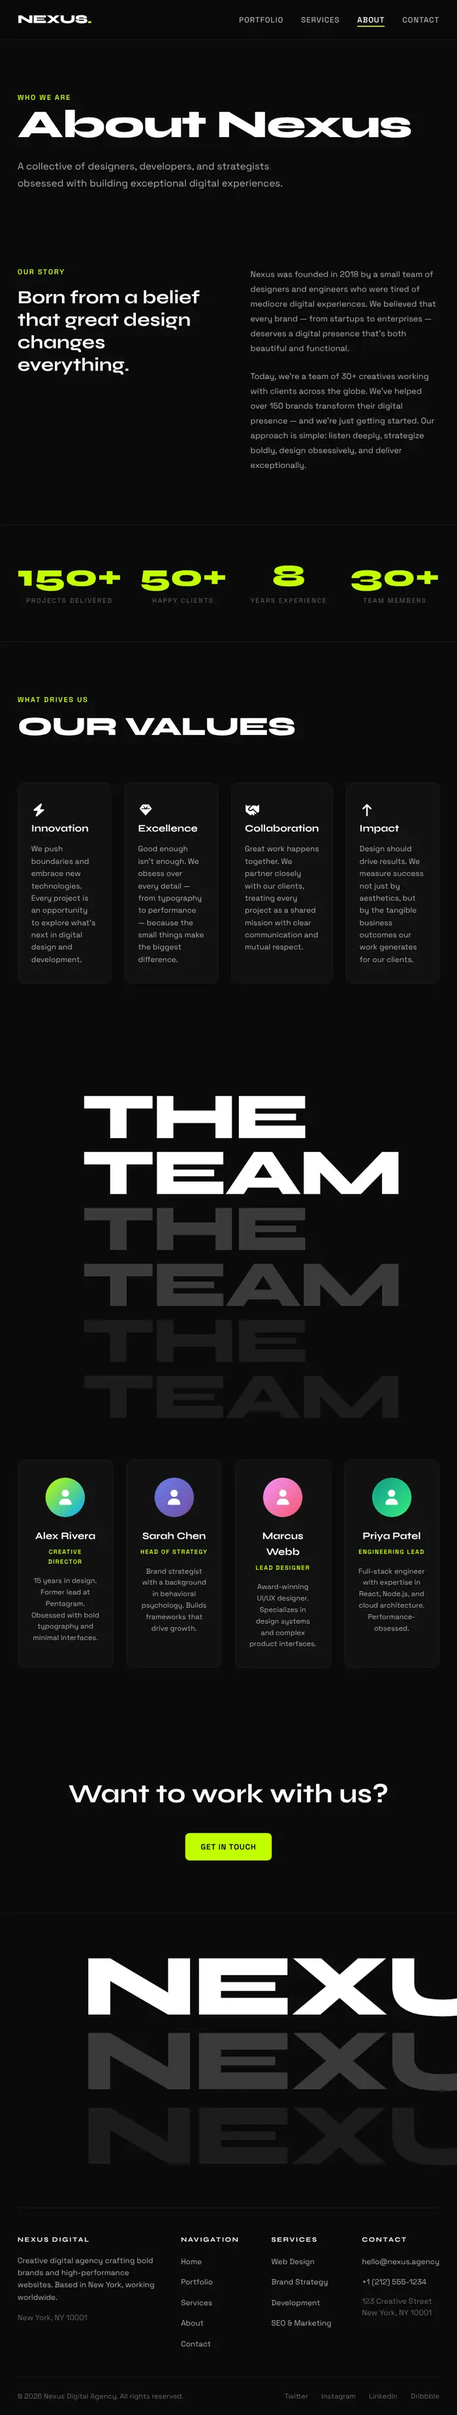
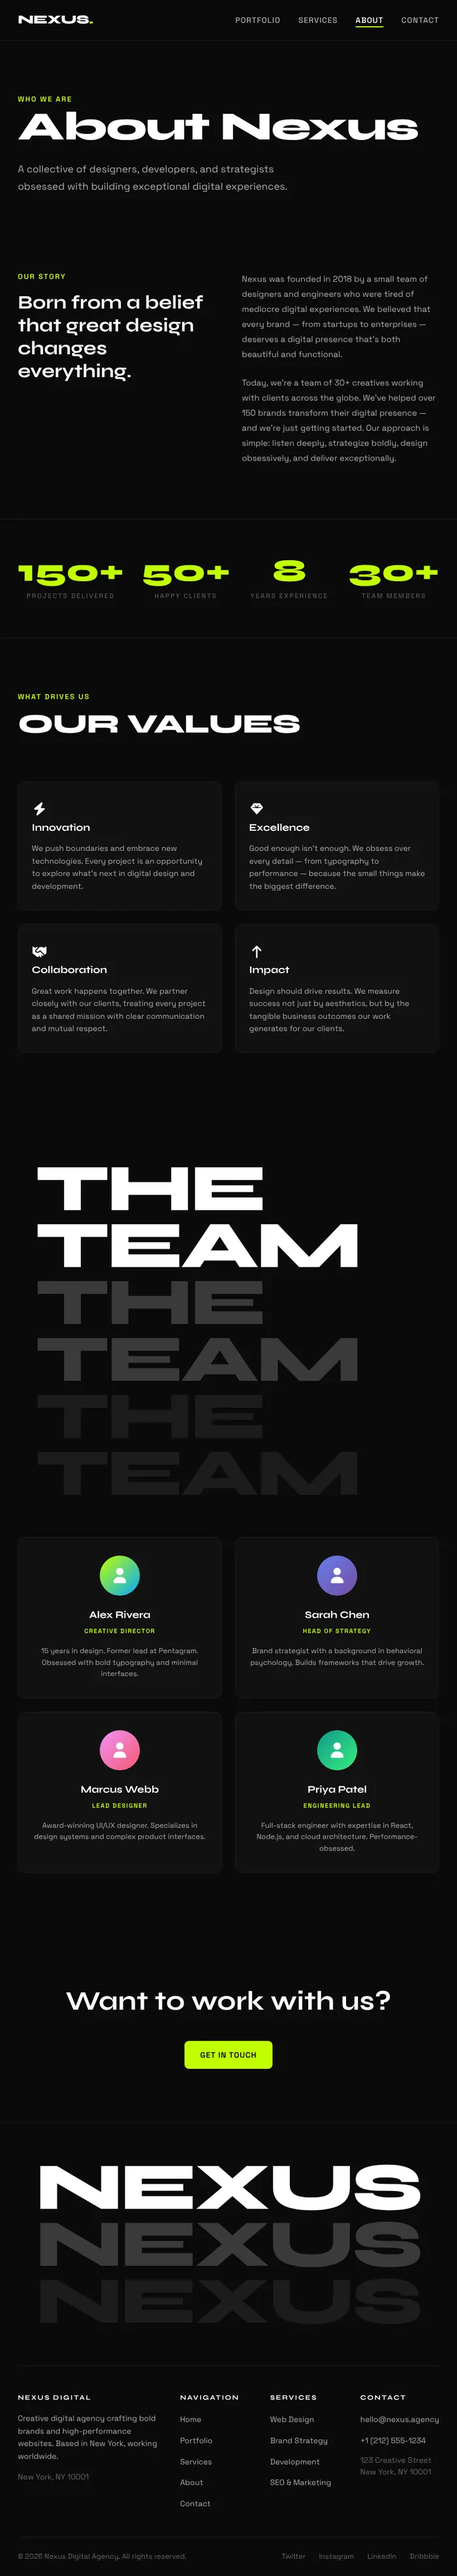
New home covers, tighter spacing, mobile view for Nexus
Claude-Session: https://claude.ai/code/session_01KHu2mMTutQogVfnZRqkc2R

diff --git a/css/styles.css b/css/styles.css
@@ -46,27 +46,25 @@ main:focus { outline: none; }
 .top nav > *:hover { color: var(--ink); }
 @media (max-width: 520px) { .brand span { display: none; } }
 
-.lead { display: grid; grid-template-columns: repeat(12, minmax(0, 1fr)); column-gap: var(--pad); padding-top: clamp(64px, 10vw, 160px); }
-.grid { display: grid; grid-template-columns: repeat(12, minmax(0, 1fr)); column-gap: var(--pad); row-gap: clamp(56px, 9vw, 140px); padding-block: clamp(64px, 9vw, 140px) clamp(80px, 12vw, 180px); }
+.lead { display: grid; grid-template-columns: repeat(12, minmax(0, 1fr)); column-gap: var(--pad); padding-top: clamp(40px, 6vw, 96px); }
+.grid { display: grid; grid-template-columns: repeat(2, minmax(0, 1fr)); gap: clamp(36px, 4vw, 56px) var(--pad); padding-block: clamp(32px, 4.5vw, 64px) clamp(64px, 8vw, 112px); }
 .work { display: block; min-width: 0; }
-.work:nth-child(4n+1) { grid-column: 2 / span 4; }
-.work:nth-child(4n+2) { grid-column: 8 / span 4; margin-top: clamp(80px, 14vw, 220px); }
-.work:nth-child(4n+3) { grid-column: 3 / span 4; }
-.work:nth-child(4n+4) { grid-column: 9 / span 3; margin-top: clamp(40px, 8vw, 120px); }
-.work__tile { position: relative; display: grid; place-items: center; aspect-ratio: 4 / 3; overflow: hidden; border-radius: 6px; background: var(--tile); }
-.work__tile img { position: absolute; inset: 0; margin: auto; display: block; max-width: 74%; max-height: 74%; width: auto; height: auto; object-fit: contain; transition: transform 0.8s var(--ease); filter: drop-shadow(0 18px 26px rgb(0 0 0 / 0.16)); }
-.work__tile img.is-shot { max-width: 84%; max-height: 78%; border-radius: 3px; }
-.work:hover .work__tile img { transform: scale(1.035); }
-.work__cap { margin-top: 10px; line-height: 1.3; }
-.work__cap b { display: block; font-weight: 500; }
+.work:first-child { grid-column: 1 / -1; }
+.work__tile { position: relative; display: block; aspect-ratio: 4 / 5; overflow: hidden; border-radius: 10px; background: var(--tile); }
+.work:first-child .work__tile { aspect-ratio: 16 / 9; }
+.work__tile img, .work__tile video { position: absolute; inset: 0; width: 100%; height: 100%; object-fit: cover; display: block; transition: transform 1s var(--ease); }
+.work:hover .work__tile img, .work:hover .work__tile video { transform: scale(1.03); }
+.work__cap { display: flex; flex-wrap: wrap; align-items: baseline; gap: 2px 10px; margin-top: 14px; line-height: 1.3; }
+.work__cap b { font-weight: 500; }
 .work__cap span { color: var(--mute); }
+.work__cap i { margin-left: auto; font-style: normal; color: var(--mute); font-variant-numeric: tabular-nums; }
 @media (max-width: 760px) {
-  .grid { grid-template-columns: minmax(0, 1fr); row-gap: 56px; padding-top: 40px; }
-  .work:nth-child(n) { grid-column: 1; margin-top: 0; }
+  .grid { grid-template-columns: minmax(0, 1fr); row-gap: 40px; padding-top: 28px; }
+  .work:nth-child(n) { grid-column: 1; }
 }
-.intro { grid-column: 2 / span 7; font-size: clamp(22px, 2.4vw, 32px); line-height: 1.18; letter-spacing: -0.028em; max-width: 26ch; text-wrap: balance; }
+.intro { grid-column: 1 / span 8; font-size: clamp(22px, 2.4vw, 32px); line-height: 1.18; letter-spacing: -0.028em; max-width: 26ch; text-wrap: balance; }
 .intro span { color: var(--mute); }
-@media (max-width: 760px) { .lead { grid-template-columns: minmax(0, 1fr); padding-top: 40px; } .intro { grid-column: 1; } }
+@media (max-width: 760px) { .lead { grid-template-columns: minmax(0, 1fr); padding-top: 32px; } .intro { grid-column: 1; } }
 
 .foot { display: flex; justify-content: space-between; gap: 16px; padding-block: 0 22px; color: var(--mute); }
 
@@ -168,7 +166,7 @@ main:focus { outline: none; }
 .next__txt span { color: var(--mute); display: block; }
 .next__txt b { display: block; margin-top: 4px; font-size: clamp(28px, 3.6vw, 48px); font-weight: 600; letter-spacing: -0.04em; line-height: 1.05; transition: opacity 0.2s; }
 .next:hover .next__txt b { opacity: 0.55; }
-.next .work__tile { grid-column: 9 / span 4; }
+.next .work__tile { grid-column: 9 / span 4; aspect-ratio: 4 / 3; }
 @media (max-width: 760px) { .next__txt, .next .work__tile { grid-column: 1 / -1; } .next .work__tile { margin-top: 20px; } }
 
 .lb { border: 0; padding: 0; margin: 0; width: 100%; height: 100%; max-width: 100%; max-height: 100%; background: transparent; color: var(--ink); }
@@ -365,7 +363,9 @@ main:focus { outline: none; }
 .dev__chrome { display: flex; align-items: center; gap: 7px; height: 34px; padding-inline: 14px; background: #1c1c1e; color: #8e8e93; font-size: 12px; }
 .dev__chrome i { width: 10px; height: 10px; border-radius: 50%; background: #3a3a3c; }
 .dev__chrome span { margin-left: 12px; padding: 3px 12px; border-radius: 6px; background: #2c2c2e; }
-.dev[data-size="tablet"] .dev__chrome { display: none; }
+.dev[data-size="tablet"] .dev__chrome, .dev[data-size="mobile"] .dev__chrome { display: none; }
+.dev[data-size="mobile"] .dev__frame { width: min(100%, 300px); border-radius: 40px; border-width: 10px; border-color: #1a1a1c; }
+.dev[data-size="mobile"] .dev__view { height: min(68vh, 600px); }
 .dev__view { height: min(68vh, 640px); overflow-y: auto; overscroll-behavior: contain; scrollbar-width: thin; }
 .dev__view img { display: block; width: 100%; height: auto; }
 .dev .cap a { color: var(--ink); text-decoration: underline; text-decoration-color: var(--line); text-underline-offset: 3px; }

diff --git a/js/app.js b/js/app.js
@@ -228,10 +228,9 @@
     return '<a class="skip" href="#main" data-skip>' + esc(ui("skip")) + '</a>' + '<header class="top side"><a class="brand" href="#home">' + esc(SITE.name || "") + '<span>' + plain(SITE.role) + '</span></a>' + '<nav aria-label="' + esc(lang === "es" ? "Principal" : "Main") + '">' + '<button type="button" data-lang aria-label="' + esc(ui("langLabel")) + '">' + esc(ui("langBtn")) + '</button>' + '<a href="#information" data-info>' + esc(ui("info")) + '</a>' + '</nav></header>';
   }
   function tile(p) {
-    var o = p.object || {};
-    var src = o.image || p.cover && p.cover.src || "";
-    var shot = o.kind === "browser" || !o.image && src;
-    return '<span class="work__tile">' + (src ? '<img src="' + esc(src) + '" alt=""' + (shot ? ' class="is-shot"' : '') + '>' : '') + '</span>';
+    var th = p.thumb || {}, img = th.image || p.cover && p.cover.src || "";
+    var media = th.video ? '<video src="' + esc(th.video) + '"' + (img ? ' poster="' + esc(img) + '"' : '') + ' muted loop playsinline preload="metadata" aria-hidden="true"></video>' : img ? '<img src="' + esc(img) + '" alt="" loading="lazy">' : '';
+    return '<span class="work__tile"' + (th.video ? ' data-tile-vid' : '') + '>' + media + '</span>';
   }
   function home() {
     var h = SITE.hero || {}, st = SITE.status || {};
@@ -240,12 +239,12 @@
       out += '<section class="lead side"><p class="intro">' + inl(h.title) + (st.available && t(st.text) ? ' <span>' + inl(st.text) + '.</span>' : '') + '</p></section>';
     }
     out += '<section class="grid side" id="work" aria-label="' + esc(ui("index")) + '">' + LIVE.map((function(p) {
-      return '<a class="work" href="#' + esc(p.id) + '">' + tile(p) + '<span class="work__cap"><b>' + plain(p.title) + '</b><span>' + plain(p.kind) + '</span></span></a>';
+      return '<a class="work" href="#' + esc(p.id) + '">' + tile(p) + '<span class="work__cap"><b>' + plain(p.title) + '</b><span>' + plain(p.kind) + '</span>' + (t(p.year) ? '<i>' + plain(p.year) + '</i>' : '') + '</span></a>';
     })).join("") + '</section></main>' + footer();
     return out;
   }
   function footer() {
-    return '<footer class="foot side"><span>© ' + (new Date).getFullYear() + ' ' + esc(SITE.name || "") + '</span>' + '<a href="#information" data-info>' + esc(ui("contact")) + '</a></footer>';
+    return '<footer class="foot side"><span>© ' + (new Date).getFullYear() + ' ' + esc(SITE.name || "") + '</span></footer>';
   }
   function sheetHTML() {
     var ab = SITE.about || {}, ct = SITE.contact || {}, ph = SITE.photo || {}, st = SITE.status || {}, tb = SITE.toolbox || {}, tr = SITE.training || {};
@@ -528,7 +527,13 @@
     io = "IntersectionObserver" in window ? new IntersectionObserver((function(entries) {
       entries.forEach((function(en) {
         var el = en.target;
-        if (el.matches("[data-vid]")) {
+        if (el.matches("[data-tile-vid]")) {
+          var tv = el.querySelector("video");
+          if (en.isIntersecting && !calm()) {
+            var tp = tv.play();
+            if (tp && tp.catch) tp.catch((function() {}));
+          } else tv.pause();
+        } else if (el.matches("[data-vid]")) {
           var v = el.querySelector("video");
           if (en.isIntersecting && !el.classList.contains("is-paused") && !calm()) {
             var pr = v.play();
@@ -545,6 +550,9 @@
     }), {
       threshold: .25
     }) : null;
+    Array.prototype.forEach.call(app.querySelectorAll("[data-tile-vid]"), (function(el) {
+      if (io) io.observe(el);
+    }));
     Array.prototype.forEach.call(app.querySelectorAll("[data-vid]"), (function(el) {
       if (calm()) el.classList.add("is-paused");
       syncVid(el);

diff --git a/content/projects.js b/content/projects.js
@@ -14,9 +14,9 @@ window.PROJECTS = [ {
     bg: "#0b17ff",
     fg: "#ffffff"
   },
-  object: {
-    kind: "phone",
-    image: "assets/projects/atlas/object-phone.webp"
+  thumb: {
+    video: "assets/projects/atlas/flow.mp4",
+    image: "assets/projects/atlas/flow-poster.webp"
   },
   cover: {
     video: "assets/projects/atlas/flow.mp4",
@@ -259,9 +259,8 @@ window.PROJECTS = [ {
     bg: "#c4956a",
     fg: "#231c15"
   },
-  object: {
-    kind: "print",
-    image: "assets/projects/lufe/object-dossier.webp"
+  thumb: {
+    image: "assets/projects/lufe/thumb.webp"
   },
   meta: [ {
     label: {
@@ -873,9 +872,8 @@ window.PROJECTS = [ {
     bg: "#8e1a24",
     fg: "#f4f1ea"
   },
-  object: {
-    kind: "print",
-    image: "assets/projects/sal/object-cover.webp"
+  thumb: {
+    image: "assets/projects/sal/thumb.webp"
   },
   cover: {
     src: "assets/projects/sal/01-covers-n01.webp",
@@ -1084,9 +1082,8 @@ window.PROJECTS = [ {
     bg: "#0a0a0a",
     fg: "#ffffff"
   },
-  object: {
-    kind: "card",
-    image: "assets/projects/artecodigo/object-isotype.webp"
+  thumb: {
+    image: "assets/projects/artecodigo/thumb.webp"
   },
   cover: {
     src: "assets/projects/artecodigo/01-applications.webp",
@@ -1389,9 +1386,8 @@ window.PROJECTS = [ {
     bg: "#c8ff4d",
     fg: "#0a0a0a"
   },
-  object: {
-    kind: "browser",
-    image: "assets/projects/nexus/01-home.webp"
+  thumb: {
+    image: "assets/projects/nexus/thumb.webp"
   },
   meta: [ {
     label: {
@@ -1495,6 +1491,12 @@ window.PROJECTS = [ {
     }, {
       key: "tablet",
       label: "Tablet"
+    }, {
+      key: "mobile",
+      label: {
+        en: "Mobile",
+        es: "Móvil"
+      }
     } ],
     pages: [ {
       label: {
@@ -1504,7 +1506,8 @@ window.PROJECTS = [ {
       path: "index.html",
       shots: {
         desktop: "assets/projects/nexus/live/desktop-index.webp",
-        tablet: "assets/projects/nexus/live/tablet-index.webp"
+        tablet: "assets/projects/nexus/live/tablet-index.webp",
+        mobile: "assets/projects/nexus/live/mobile-index.webp"
       }
     }, {
       label: {
@@ -1514,7 +1517,8 @@ window.PROJECTS = [ {
       path: "services.html",
       shots: {
         desktop: "assets/projects/nexus/live/desktop-services.webp",
-        tablet: "assets/projects/nexus/live/tablet-services.webp"
+        tablet: "assets/projects/nexus/live/tablet-services.webp",
+        mobile: "assets/projects/nexus/live/mobile-services.webp"
       }
     }, {
       label: {
@@ -1524,7 +1528,8 @@ window.PROJECTS = [ {
       path: "about.html",
       shots: {
         desktop: "assets/projects/nexus/live/desktop-about.webp",
-        tablet: "assets/projects/nexus/live/tablet-about.webp"
+        tablet: "assets/projects/nexus/live/tablet-about.webp",
+        mobile: "assets/projects/nexus/live/mobile-about.webp"
       }
     }, {
       label: {
@@ -1534,7 +1539,8 @@ window.PROJECTS = [ {
       path: "contact.html",
       shots: {
         desktop: "assets/projects/nexus/live/desktop-contact.webp",
-        tablet: "assets/projects/nexus/live/tablet-contact.webp"
+        tablet: "assets/projects/nexus/live/tablet-contact.webp",
+        mobile: "assets/projects/nexus/live/mobile-contact.webp"
       }
     } ]
   }, {
